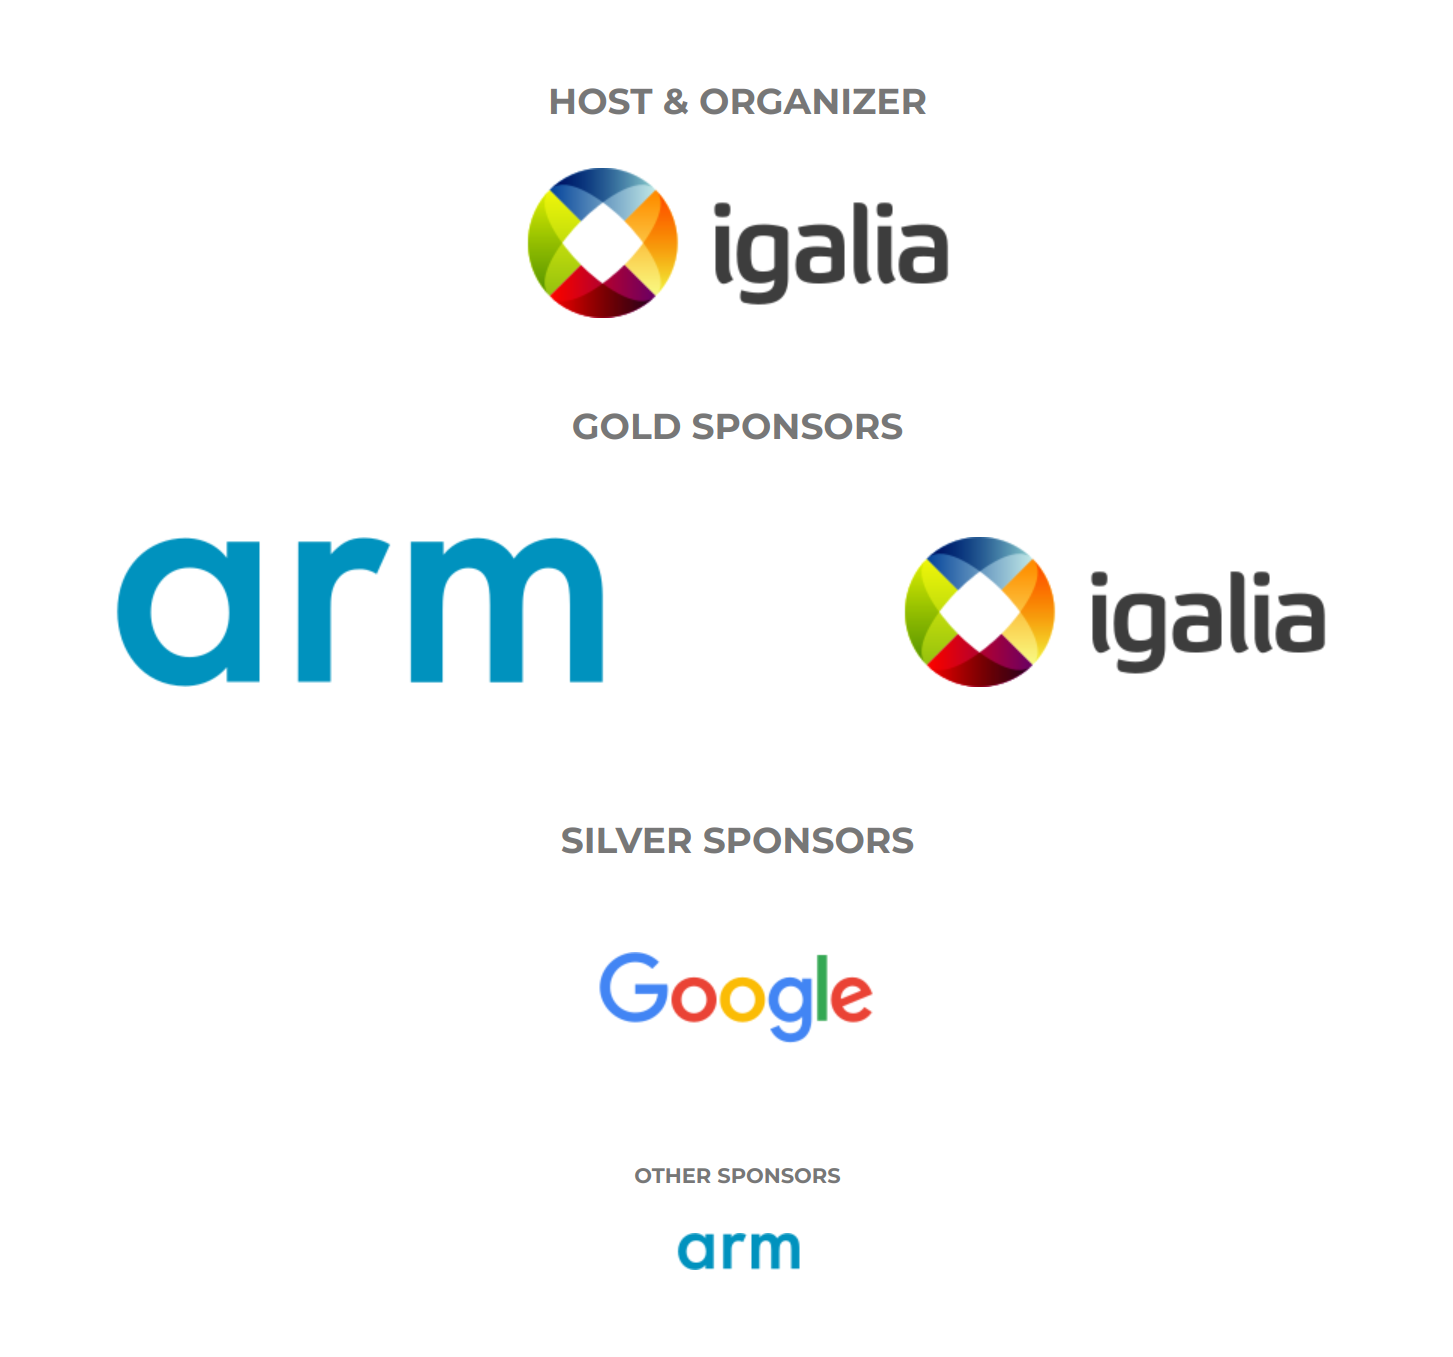
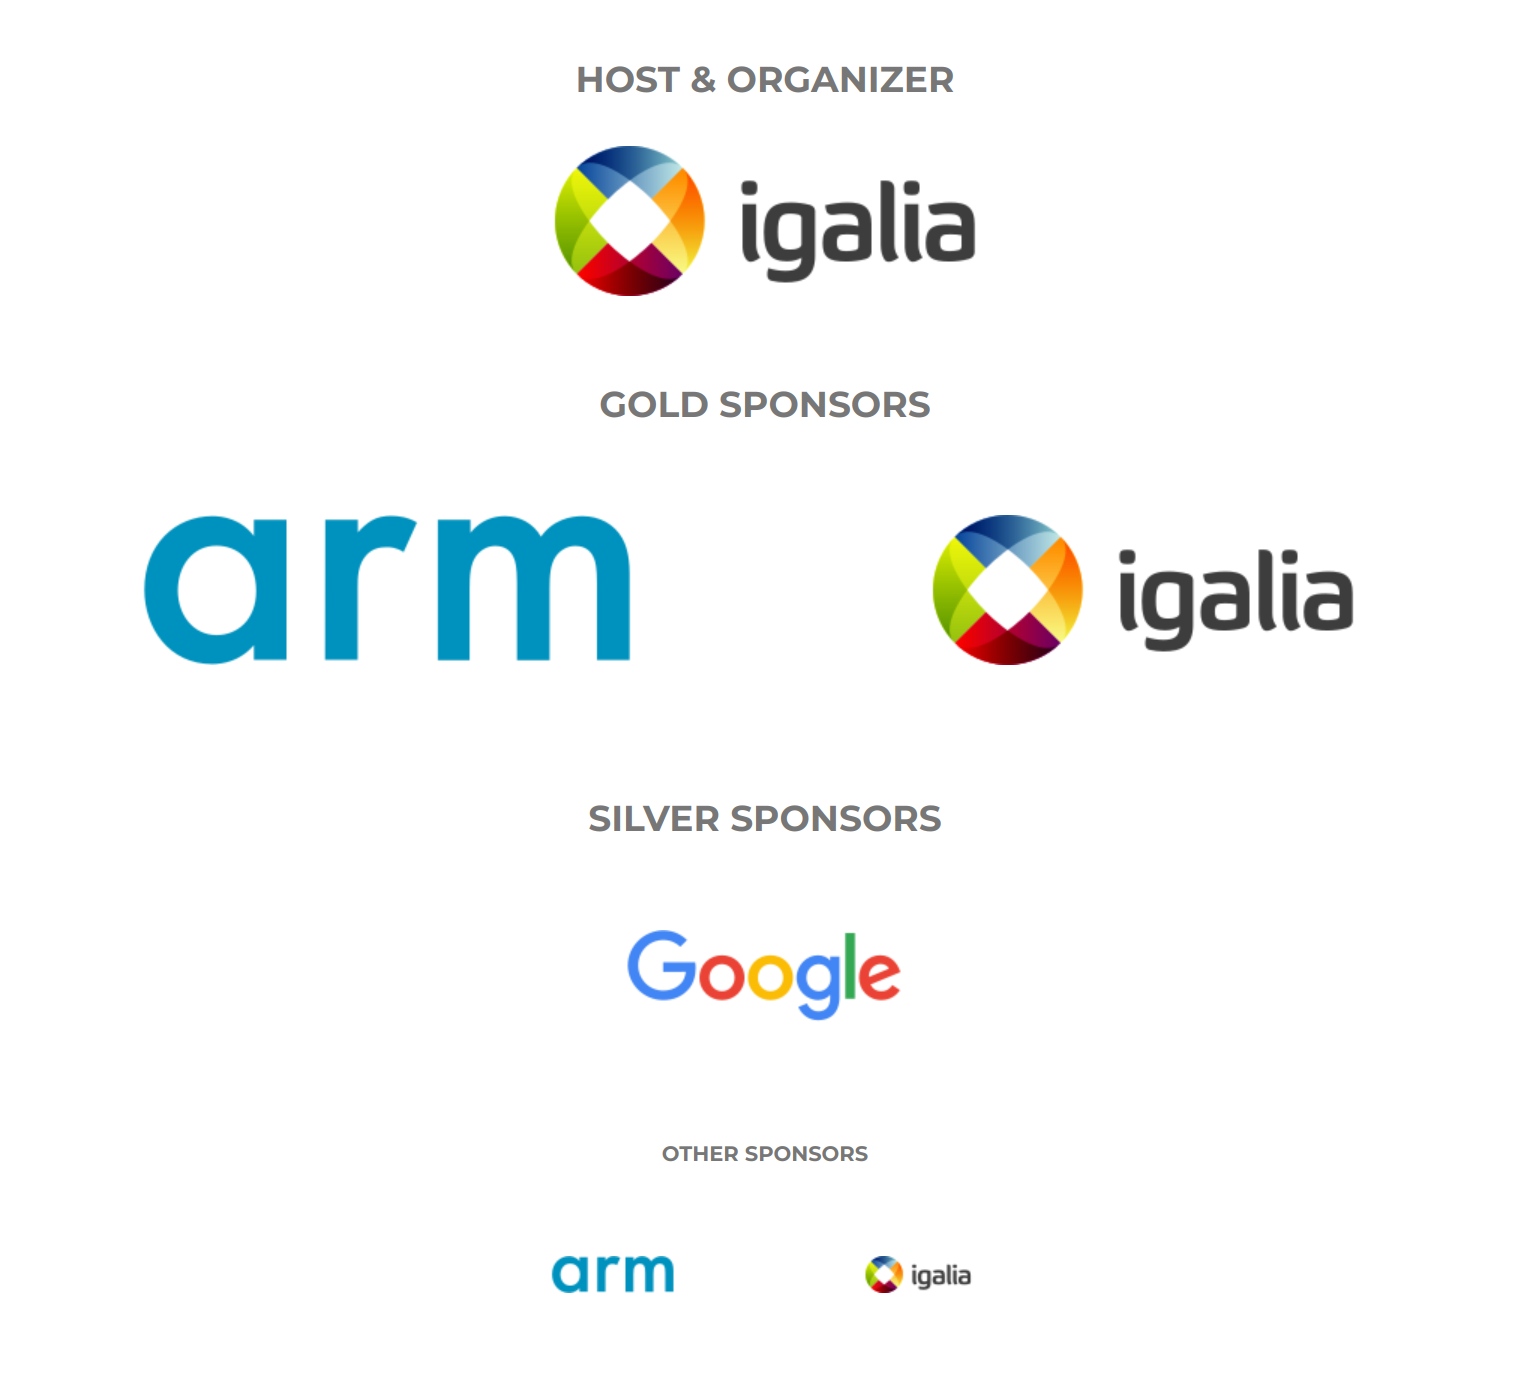
Add Igalia as lunch sponsor

diff --git a/2023/index.html b/2023/index.html
@@ -538,7 +538,10 @@
         </div>
         <div class="row text-center sponsors">
           <a href="https://www.arm.com/">
-            <img src="img/logos/logo-arm-other.png" title="Arm Cofee & Snacks Sponsor" alt="Arm Logo">
+            <img src="img/logos/logo-arm-other.png" title="Arm Cofee & Snacks Sponsor" alt="Arm Logo" style="margin: 50px;">
+          </a>
+          <a href="https://www.igalia.com">
+            <img src="img/logos/logo-igalia-other.png" title="Igalia Lunch Sponsor" alt="Igalia Logo" style="margin: 50px;">
           </a>
         </div>
       </div>
